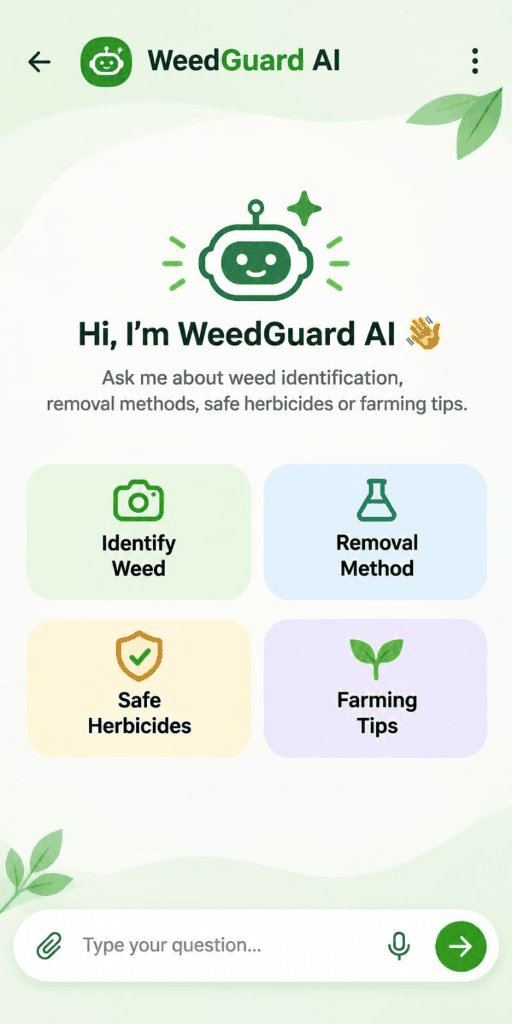
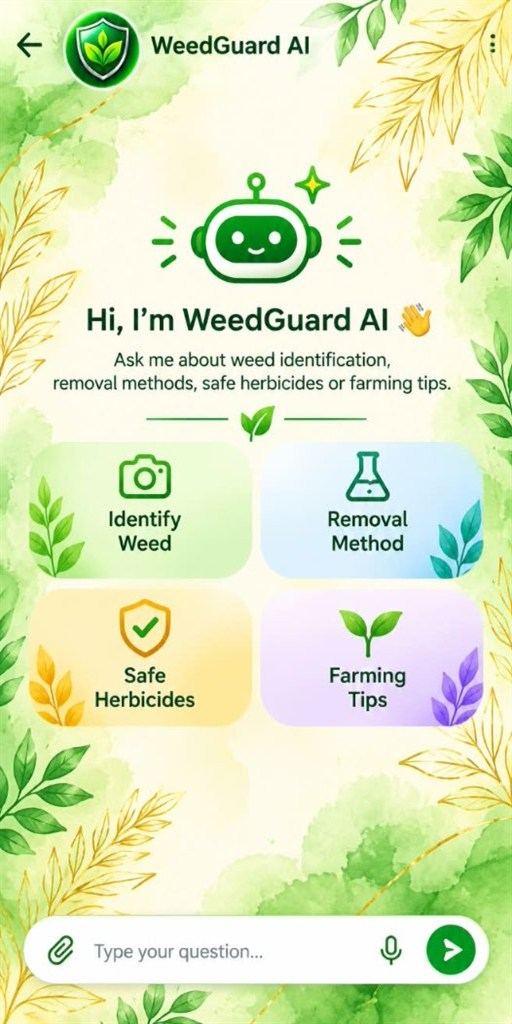
feat(chat): replace weedguard_ai_template with compressed high-res asset and calibrate functional button bounds

diff --git a/lib/features/chat/presentation/screens/ask_weedguard_chat_screen.dart b/lib/features/chat/presentation/screens/ask_weedguard_chat_screen.dart
@@ -1673,14 +1673,14 @@ class _AskWeedGuardChatScreenState extends ConsumerState<AskWeedGuardChatScreen>
 
                     // 4. Card 1: "Identify Weed"
                     Positioned(
-                      left: w * (27 / 512),
-                      width: w * (222 / 512),
-                      top: h * (464 / 1024),
-                      height: h * (133 / 1024),
+                      left: w * (25 / 512),
+                      width: w * (226 / 512),
+                      top: h * (445 / 1024),
+                      height: h * (132 / 1024),
                       child: Material(
                         color: Colors.transparent,
                         child: InkWell(
-                          borderRadius: BorderRadius.circular(18),
+                          borderRadius: BorderRadius.circular(20),
                           splashColor: const Color(0xFF2D6A4F).withValues(alpha: 0.18),
                           highlightColor: const Color(0xFF2D6A4F).withValues(alpha: 0.08),
                           onTap: () {
@@ -1694,14 +1694,14 @@ class _AskWeedGuardChatScreenState extends ConsumerState<AskWeedGuardChatScreen>
 
                     // 5. Card 2: "Removal Method"
                     Positioned(
-                      left: w * (264 / 512),
-                      width: w * (223 / 512),
-                      top: h * (464 / 1024),
-                      height: h * (133 / 1024),
+                      left: w * (261 / 512),
+                      width: w * (226 / 512),
+                      top: h * (445 / 1024),
+                      height: h * (132 / 1024),
                       child: Material(
                         color: Colors.transparent,
                         child: InkWell(
-                          borderRadius: BorderRadius.circular(18),
+                          borderRadius: BorderRadius.circular(20),
                           splashColor: const Color(0xFF0077B6).withValues(alpha: 0.18),
                           highlightColor: const Color(0xFF0077B6).withValues(alpha: 0.08),
                           onTap: () {
@@ -1715,14 +1715,14 @@ class _AskWeedGuardChatScreenState extends ConsumerState<AskWeedGuardChatScreen>
 
                     // 6. Card 3: "Safe Herbicides"
                     Positioned(
-                      left: w * (27 / 512),
-                      width: w * (222 / 512),
-                      top: h * (620 / 1024),
-                      height: h * (135 / 1024),
+                      left: w * (25 / 512),
+                      width: w * (226 / 512),
+                      top: h * (590 / 1024),
+                      height: h * (136 / 1024),
                       child: Material(
                         color: Colors.transparent,
                         child: InkWell(
-                          borderRadius: BorderRadius.circular(18),
+                          borderRadius: BorderRadius.circular(20),
                           splashColor: const Color(0xFFF77F00).withValues(alpha: 0.18),
                           highlightColor: const Color(0xFFF77F00).withValues(alpha: 0.08),
                           onTap: () {
@@ -1736,14 +1736,14 @@ class _AskWeedGuardChatScreenState extends ConsumerState<AskWeedGuardChatScreen>
 
                     // 7. Card 4: "Farming Tips"
                     Positioned(
-                      left: w * (264 / 512),
-                      width: w * (223 / 512),
-                      top: h * (620 / 1024),
-                      height: h * (135 / 1024),
+                      left: w * (261 / 512),
+                      width: w * (226 / 512),
+                      top: h * (590 / 1024),
+                      height: h * (136 / 1024),
                       child: Material(
                         color: Colors.transparent,
                         child: InkWell(
-                          borderRadius: BorderRadius.circular(18),
+                          borderRadius: BorderRadius.circular(20),
                           splashColor: const Color(0xFF7209B7).withValues(alpha: 0.18),
                           highlightColor: const Color(0xFF7209B7).withValues(alpha: 0.08),
                           onTap: () {
@@ -1819,16 +1819,16 @@ class _AskWeedGuardChatScreenState extends ConsumerState<AskWeedGuardChatScreen>
                     AnimatedPositioned(
                       duration: const Duration(milliseconds: 180),
                       curve: Curves.easeOutCubic,
-                      left: w * (17 / 512),
-                      right: w * (17 / 512),
+                      left: w * (24 / 512),
+                      right: w * (24 / 512),
                       top: isKeyboardOpen
-                          ? (visibleAreaHeight - (h * (66 / 1024)) - 12)
-                          : (h * (922 / 1024)),
-                      height: h * (66 / 1024),
+                          ? (visibleAreaHeight - (h * (64 / 1024)) - 12)
+                          : (h * (916 / 1024)),
+                      height: h * (64 / 1024),
                       child: Container(
                         decoration: BoxDecoration(
                           color: isKeyboardOpen ? Colors.white : Colors.transparent,
-                          borderRadius: BorderRadius.circular(30),
+                          borderRadius: BorderRadius.circular(32),
                           border: null, // Strictly NO green boundary!
                           boxShadow: isKeyboardOpen
                               ? [
@@ -1844,7 +1844,7 @@ class _AskWeedGuardChatScreenState extends ConsumerState<AskWeedGuardChatScreen>
                           children: [
                             // Paperclip attachment button
                             SizedBox(
-                              width: w * (52 / 512),
+                              width: w * (54 / 512),
                               height: double.infinity,
                               child: Material(
                                 color: Colors.transparent,
@@ -1897,7 +1897,7 @@ class _AskWeedGuardChatScreenState extends ConsumerState<AskWeedGuardChatScreen>
 
                             // Mic button
                             SizedBox(
-                              width: w * (48 / 512),
+                              width: w * (50 / 512),
                               height: double.infinity,
                               child: Material(
                                 color: Colors.transparent,
